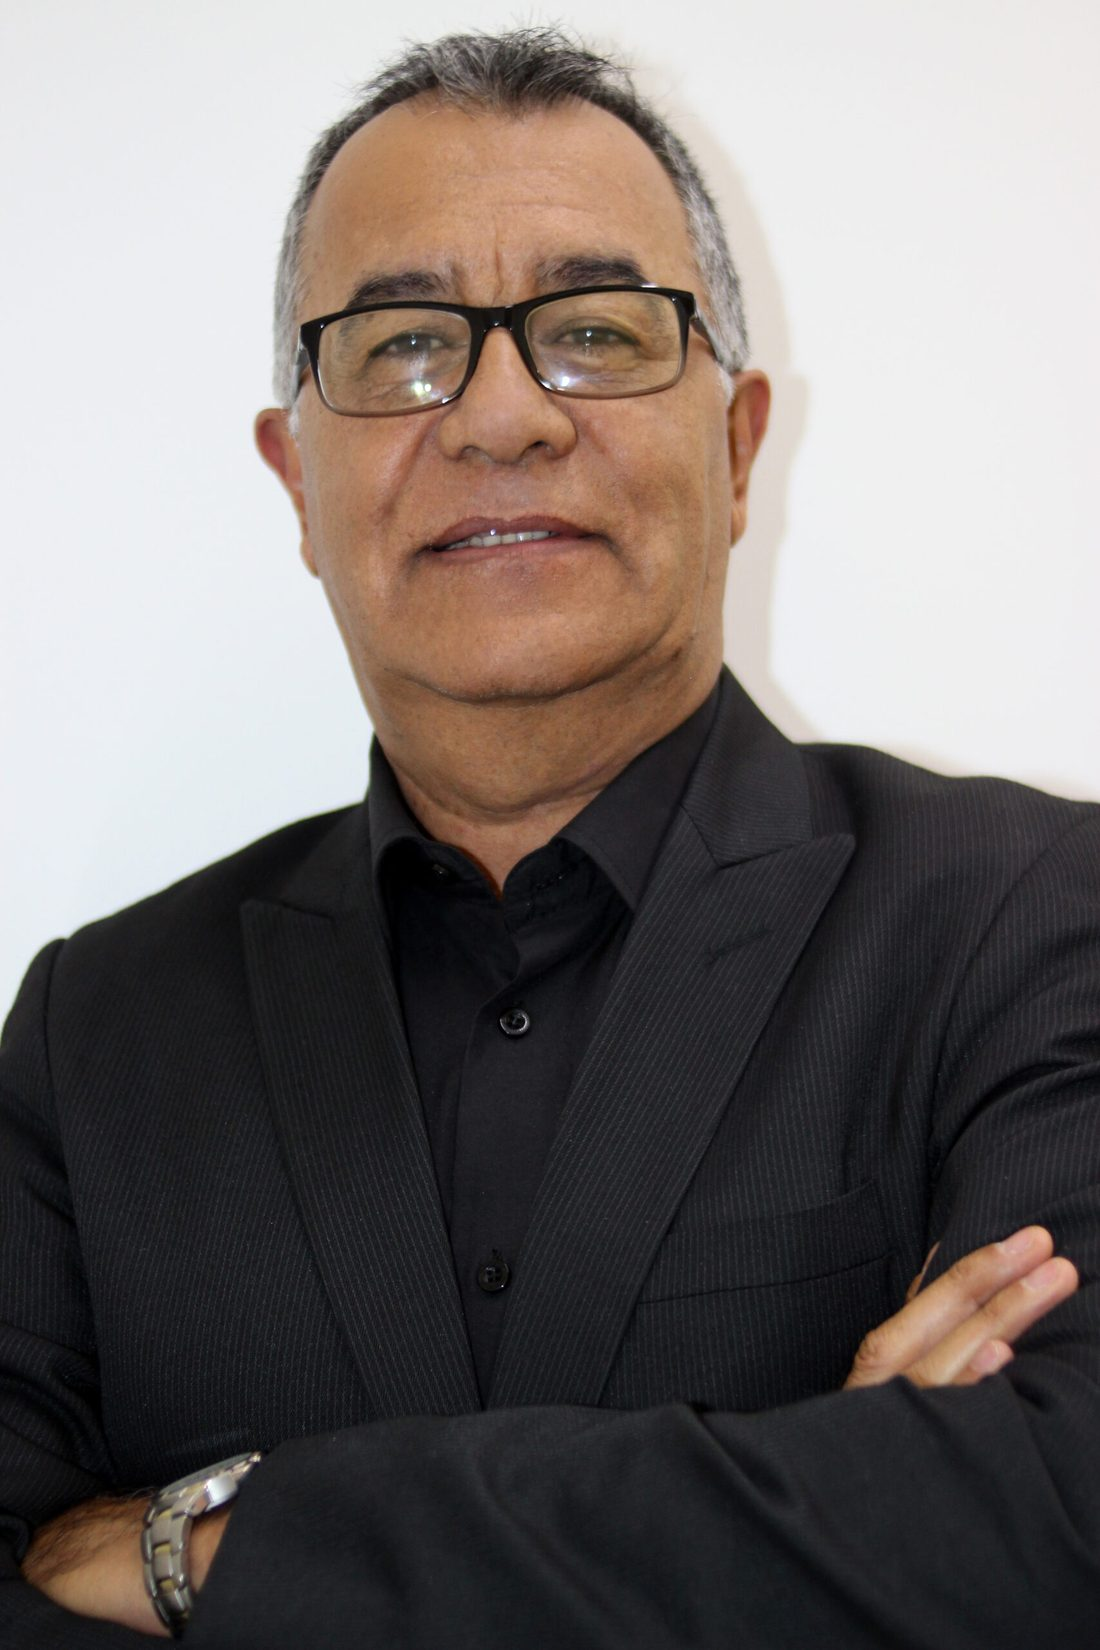
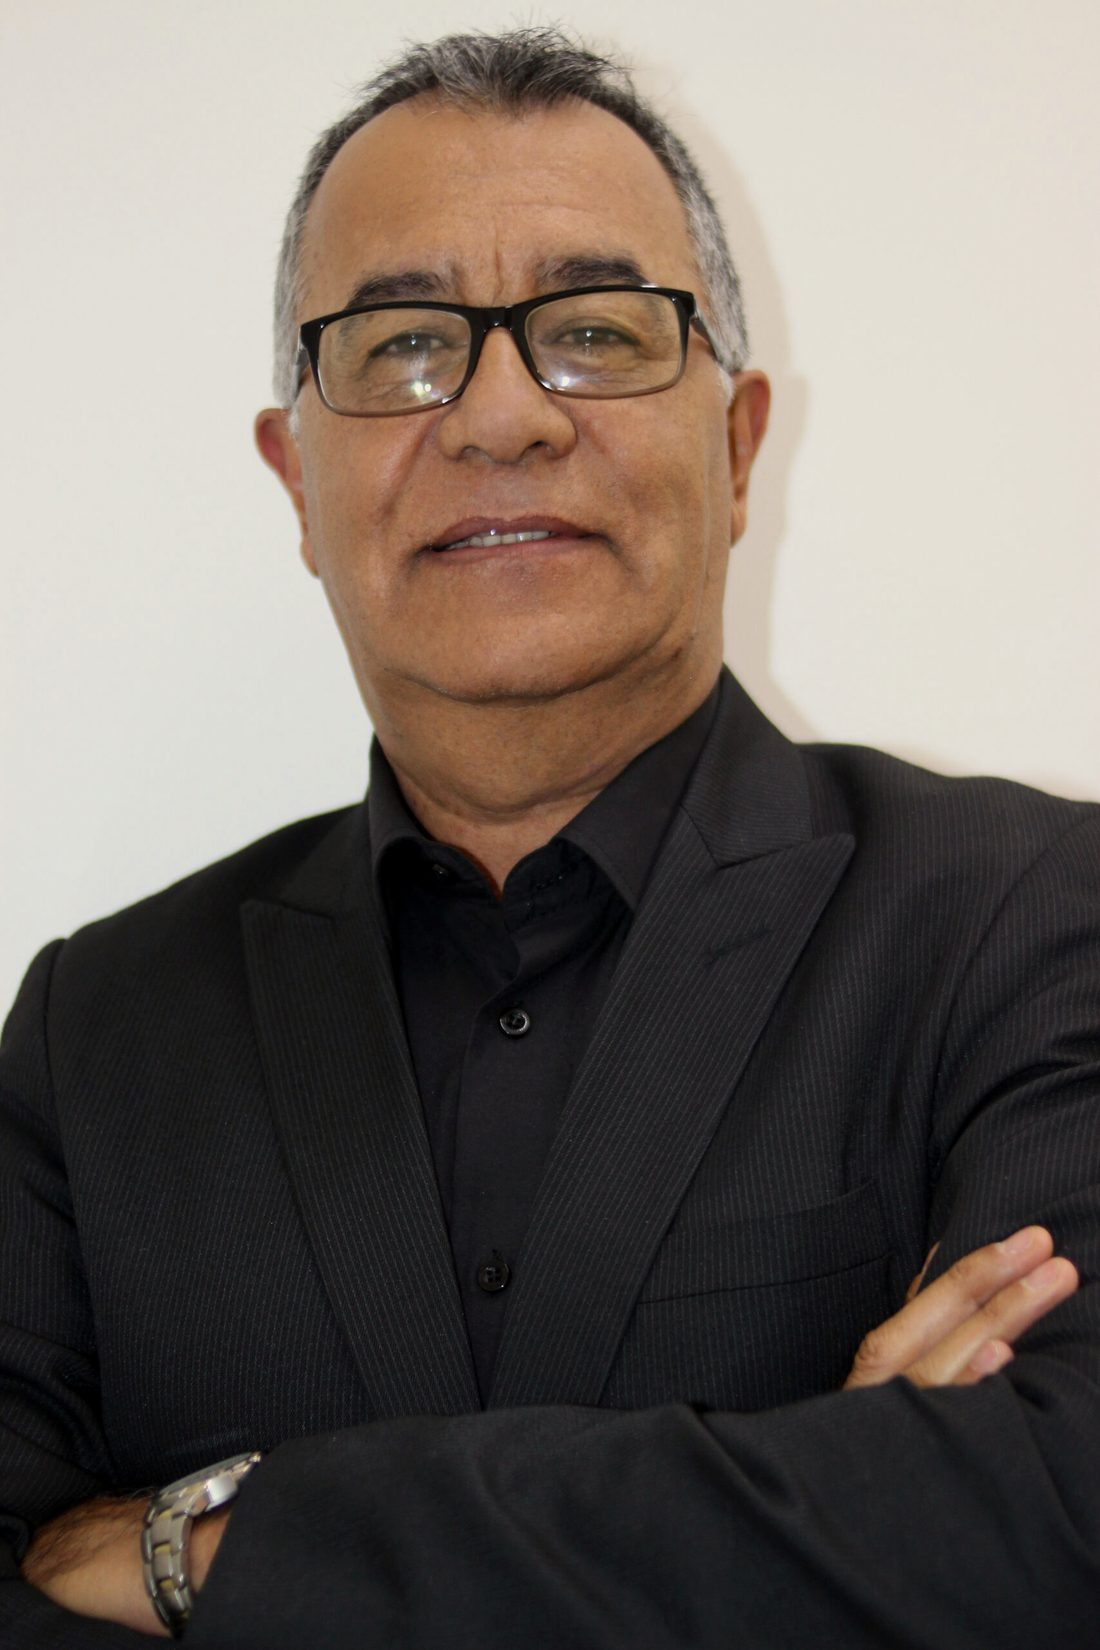
Demo José: foto difuminada con el fondo y símbolo como mente, cuerpo y espíritu
Claude-Session: https://claude.ai/code/session_01S9PCZ8hy8uqoi6wjFiyXWR

Changed region(s): [[0.0, 0.0, 1.0, 0.6182], [0.1855, 0.8964, 0.2164, 0.9273]]

diff --git a/demos/jose-herrera/index.html b/demos/jose-herrera/index.html
@@ -103,15 +103,17 @@ body::before{content:"";position:fixed;inset:0;pointer-events:none;z-index:100;o
 .facts div{font-size:.86rem;color:var(--gris);line-height:1.35}
 .facts b{display:block;font-family:var(--serif);font-weight:400;font-size:1.65rem;color:var(--carbon);letter-spacing:-.01em}
 
-.portrait{position:relative;justify-self:center;width:min(100%,500px)}
-.portrait .halo{position:absolute;left:50%;top:-7%;width:118%;transform:translateX(-50%);aspect-ratio:1;z-index:0;color:var(--oro);opacity:.55}
+.portrait{position:relative;justify-self:center;width:min(100%,470px)}
+.portrait .halo{position:absolute;left:50%;top:-4%;width:100%;transform:translateX(-50%);aspect-ratio:1;z-index:0;color:var(--oro);opacity:.55}
 .portrait .halo circle{fill:none;stroke:currentColor;stroke-width:.6}
-.arch{position:relative;z-index:1;aspect-ratio:4/5.1;border-radius:999px 999px 28px 28px;overflow:hidden;background:linear-gradient(165deg,#FAF5EC 0%,#EFE5D3 55%,#E4D6BD 100%);box-shadow:0 50px 80px -50px rgba(46,70,59,.55)}
-.arch img{width:100%;height:100%;object-fit:cover;object-position:50% 12%;mix-blend-mode:multiply;transform:scale(1.04);will-change:transform}
-.frame-line{position:absolute;z-index:0;inset:22px -22px -22px 22px;border:1px solid var(--oro);border-radius:999px 999px 28px 28px;opacity:.8}
+/* foto fundida con el fondo: sin marco, bordes difuminados y luz cálida detrás */
+.portrait::before,.about .pic::before{content:"";position:absolute;left:8%;right:8%;top:4%;height:62%;border-radius:50%;background:radial-gradient(closest-side,rgba(201,165,92,.30),rgba(220,229,221,.55) 55%,rgba(220,229,221,0));filter:blur(18px)}
+.portrait::after,.about .pic::after{content:"";position:absolute;left:14%;right:14%;bottom:6%;height:16%;border-radius:50%;background:radial-gradient(closest-side,rgba(46,70,59,.20),rgba(46,70,59,0));filter:blur(10px)}
+.arch{position:relative;aspect-ratio:2/3;margin:0 -6%}
+.arch img{width:100%;height:100%;object-fit:cover;object-position:50% 0;mix-blend-mode:multiply;-webkit-mask-image:radial-gradient(ellipse 50% 50% at 50% 50%,#000 60%,rgba(0,0,0,.65) 80%,transparent 100%);mask-image:radial-gradient(ellipse 50% 50% at 50% 50%,#000 60%,rgba(0,0,0,.65) 80%,transparent 100%)}
 .seal{position:absolute;z-index:3;left:-46px;top:16%;width:132px;height:132px;border-radius:50%;background:var(--marfil);display:grid;place-items:center;box-shadow:0 22px 40px -22px rgba(43,42,40,.45)}
 .seal svg.ring{position:absolute;inset:0;width:100%;height:100%;animation:spin 38s linear infinite}
-.seal svg.ring text{font-family:var(--sans);font-size:10.6px;font-weight:800;fill:var(--salvia);text-transform:uppercase}
+.seal svg.ring text{font-family:var(--sans);font-size:9.6px;font-weight:800;fill:var(--salvia);text-transform:uppercase}
 .seal img{width:56px;height:auto}
 .badge{position:absolute;z-index:3;right:-20px;bottom:8%;display:flex;align-items:center;gap:14px;padding:16px 22px 16px 16px;border-radius:20px;background:rgba(251,248,242,.9);-webkit-backdrop-filter:blur(10px);backdrop-filter:blur(10px);box-shadow:0 24px 40px -24px rgba(43,42,40,.5);border:1px solid rgba(201,165,92,.35)}
 .badge b{font-family:var(--serif);font-weight:400;font-size:2.4rem;line-height:1;color:var(--salvia)}
@@ -135,10 +137,8 @@ body::before{content:"";position:fixed;inset:0;pointer-events:none;z-index:100;o
 .js .loaded .hero .w > span{transform:none}
 .js .hero .fade{opacity:0;transform:translateY(18px);transition:opacity 1.1s var(--ease),transform 1.1s var(--ease)}
 .js .loaded .hero .fade{opacity:1;transform:none}
-.js .hero .arch{clip-path:inset(100% 0 0 0 round 999px 999px 28px 28px);transition:clip-path 1.6s var(--ease-soft) .2s}
-.js .loaded .hero .arch{clip-path:inset(0 0 0 0 round 999px 999px 28px 28px)}
-.js .hero .frame-line{opacity:0;transform:translate(-22px,-22px);transition:opacity 1.2s var(--ease) .9s,transform 1.4s var(--ease) .9s}
-.js .loaded .hero .frame-line{opacity:.8;transform:none}
+.js .hero .arch{opacity:0;filter:blur(16px);transform:scale(1.04);transition:opacity 1.8s var(--ease) .2s,filter 1.8s var(--ease) .2s,transform 2.2s var(--ease) .2s}
+.js .loaded .hero .arch{opacity:1;filter:none;transform:none}
 .js .hero .halo circle{stroke-dasharray:1;stroke-dashoffset:1;transition:stroke-dashoffset 2.6s var(--ease-soft)}
 .js .loaded .hero .halo circle{stroke-dashoffset:0}
 
@@ -159,8 +159,8 @@ body::before{content:"";position:fixed;inset:0;pointer-events:none;z-index:100;o
 /* revelado al hacer scroll */
 .js .reveal{opacity:0;transform:translateY(34px);transition:opacity 1.2s var(--ease),transform 1.2s var(--ease);transition-delay:calc(var(--d,0) * 110ms)}
 .js .reveal.seen{opacity:1;transform:none}
-.js .reveal-img{clip-path:inset(12% 12% 12% 12% round 999px 999px 28px 28px);opacity:.3;transition:clip-path 1.6s var(--ease-soft),opacity 1.4s var(--ease)}
-.js .reveal-img.seen{clip-path:inset(0 0 0 0 round 999px 999px 28px 28px);opacity:1}
+.js .reveal-img{opacity:0;filter:blur(14px);transition:opacity 1.6s var(--ease),filter 1.6s var(--ease)}
+.js .reveal-img.seen{opacity:1;filter:none}
 
 /* te pasa esto */
 .feel .grid{display:grid;grid-template-columns:repeat(4,1fr);gap:20px}
@@ -242,12 +242,11 @@ body::before{content:"";position:fixed;inset:0;pointer-events:none;z-index:100;o
 .courses li{padding:8px 16px;border-radius:999px;background:var(--arena);font-size:.9rem}
 
 /* sobre José */
+.about{overflow:hidden}
 .about .in{display:grid;grid-template-columns:.9fr 1.1fr;gap:clamp(40px,7vw,100px);align-items:center}
 .about .pic{position:relative;max-width:470px;width:100%;justify-self:center}
-.about .pic .arch{aspect-ratio:4/4.6}
-.about .pic .arch img{object-position:50% 20%}
-.about .pic .frame-line{inset:-18px 18px 18px -18px}
-.about .sign{position:absolute;z-index:3;right:-16px;bottom:-22px;padding:18px 24px;background:var(--marfil);border-radius:18px;box-shadow:0 24px 40px -26px rgba(43,42,40,.5);font-family:var(--serif);font-style:italic;font-size:1.25rem;color:var(--salvia);line-height:1.2}
+.about .pic .arch{aspect-ratio:900/1213}
+.about .sign{position:absolute;z-index:3;right:-6px;bottom:14%;padding:18px 24px;background:var(--marfil);border-radius:18px;box-shadow:0 24px 40px -26px rgba(43,42,40,.5);font-family:var(--serif);font-style:italic;font-size:1.25rem;color:var(--salvia);line-height:1.2}
 .about .sign small{display:block;font-family:var(--sans);font-style:normal;font-size:.72rem;letter-spacing:.16em;text-transform:uppercase;color:var(--oro-texto);font-weight:800;margin-top:4px}
 .about h2{font-size:clamp(2rem,3.8vw,3.1rem)}
 .about .quote{font-family:var(--serif);font-weight:300;font-style:italic;font-size:clamp(1.3rem,2vw,1.6rem);line-height:1.4;color:var(--salvia-osc);margin:26px 0}
@@ -348,9 +347,8 @@ html:not(.js) .fab{transform:none;opacity:1;pointer-events:auto}
   html{scroll-behavior:auto}
   *,*::before,*::after{animation:none !important;transition-duration:.01ms !important;transition-delay:0s !important}
   .js .reveal,.js .hero .fade{opacity:1;transform:none}
-  .js .reveal-img,.js .hero .arch{clip-path:none;opacity:1}
+  .js .reveal-img,.js .hero .arch{filter:none;opacity:1;transform:none}
   .js .hero .w > span{transform:none}
-  .js .hero .frame-line{opacity:.8;transform:none}
   .js .hero .halo circle{stroke-dashoffset:0}
   .how .row::before{transform:scaleX(1)}
   .steps .rail{transform:scaleY(1)}
@@ -411,7 +409,6 @@ html:not(.js) .fab{transform:none;opacity:1;pointer-events:auto}
 
     <div class="portrait">
       <svg class="halo" viewBox="0 0 200 200" aria-hidden="true"><circle pathLength="1" cx="100" cy="100" r="96" transform="rotate(-90 100 100)"/></svg>
-      <span class="frame-line" aria-hidden="true"></span>
       <div class="arch">
         <picture>
           <source type="image/webp" srcset="assets/jose-640.webp 640w, assets/jose-1100.webp 1100w" sizes="(max-width:900px) 86vw, 520px">
@@ -419,7 +416,7 @@ html:not(.js) .fab{transform:none;opacity:1;pointer-events:auto}
         </picture>
       </div>
       <div class="seal fade" style="transition-delay:1.2s" aria-hidden="true">
-        <svg class="ring" viewBox="0 0 120 120"><defs><path id="c" d="M60 60m-46 0a46 46 0 1 1 92 0a46 46 0 1 1-92 0"/></defs><text><textPath href="#c" textLength="286" lengthAdjust="spacing">Cuerpo · Mente · Alma ·</textPath></text></svg>
+        <svg class="ring" viewBox="0 0 120 120"><defs><path id="c" d="M60 60m-46 0a46 46 0 1 1 92 0a46 46 0 1 1-92 0"/></defs><text><textPath href="#c" textLength="286" lengthAdjust="spacing">Mente · Cuerpo · Espíritu ·</textPath></text></svg>
         <img src="assets/simbolo.png" alt="" width="379" height="312">
       </div>
       <div class="badge fade" style="transition-delay:1.35s"><b data-count="30">+30</b><span>años acompañando procesos de vida</span></div>
@@ -464,7 +461,7 @@ html:not(.js) .fab{transform:none;opacity:1;pointer-events:auto}
     <div class="head reveal">
       <div class="eyebrow">El Método 4R</div>
       <h2 id="t-metodo">Cuatro pasos para sanar <em>lo que hoy te pesa</em></h2>
-      <p class="lead">Es la forma en que José acompaña cada proceso. Se combina con coaching y Reiki para trabajar de manera integral: cuerpo, mente y alma.</p>
+      <p class="lead">Es la forma en que José acompaña cada proceso. Se combina con coaching y Reiki para trabajar de manera integral: mente, cuerpo y espíritu.</p>
       <blockquote>“Para la sanación y la reconexión es necesaria la toma de consciencia de los patrones que subyacen a lo que sentimos.”<cite>José Herrera</cite></blockquote>
     </div>
     <div class="steps" data-rail>
@@ -559,11 +556,10 @@ html:not(.js) .fab{transform:none;opacity:1;pointer-events:auto}
 <section class="band about" id="sobre-jose" aria-labelledby="t-about">
   <div class="in">
     <div class="pic reveal">
-      <span class="frame-line" aria-hidden="true"></span>
       <div class="arch reveal-img">
         <picture>
           <source type="image/webp" srcset="assets/jose-retrato.webp">
-          <img data-parallax="0.05" src="assets/jose-retrato.jpg" alt="Retrato de José Herrera" width="900" height="983" loading="lazy">
+          <img data-parallax="0.05" src="assets/jose-retrato.jpg" alt="Retrato de José Herrera" width="900" height="1213" loading="lazy">
         </picture>
       </div>
       <div class="sign">José Herrera<small>Terapeuta holístico</small></div>
@@ -590,11 +586,11 @@ html:not(.js) .fab{transform:none;opacity:1;pointer-events:auto}
     <div>
       <div class="head reveal" style="margin-bottom:0">
         <div class="eyebrow">Nuestro símbolo</div>
-        <h2 id="t-mean">Cuerpo, mente y alma, y en el centro <em>lo que vuelve a crecer</em></h2>
+        <h2 id="t-mean">Mente, cuerpo y espíritu, y en el centro <em>lo que vuelve a crecer</em></h2>
       </div>
       <div class="legend">
-        <div class="reveal" style="--d:0"><i style="background:#F1E6CC;color:var(--oro-texto)"><svg aria-hidden="true"><use href="#sun"/></svg></i><p><b>El arco dorado</b><span>La luz y el propósito que te guían.</span></p></div>
-        <div class="reveal" style="--d:1"><i style="background:var(--salvia-claro);color:var(--salvia)"><svg aria-hidden="true"><use href="#stones"/></svg></i><p><b>Los dos círculos verdes</b><span>El cuerpo y la mente, en equilibrio.</span></p></div>
+        <div class="reveal" style="--d:0"><i style="background:#F1E6CC;color:var(--oro-texto)"><svg aria-hidden="true"><use href="#sun"/></svg></i><p><b>El arco dorado</b><span>El espíritu: la luz y el propósito que te guían.</span></p></div>
+        <div class="reveal" style="--d:1"><i style="background:var(--salvia-claro);color:var(--salvia)"><svg aria-hidden="true"><use href="#stones"/></svg></i><p><b>Los dos círculos verdes</b><span>La mente y el cuerpo, en equilibrio.</span></p></div>
         <div class="reveal" style="--d:2"><i style="background:#E3EBD2;color:#5E7A33"><svg aria-hidden="true"><use href="#leaf"/></svg></i><p><b>El brote al centro</b><span>Lo que sana cuando los tres se encuentran.</span></p></div>
       </div>
     </div>
@@ -749,7 +745,7 @@ html:not(.js) .fab{transform:none;opacity:1;pointer-events:auto}
       var r=img.parentNode.getBoundingClientRect();
       if(r.bottom<0||r.top>innerHeight)return;
       var d=(r.top+r.height/2-innerHeight/2)*-parseFloat(img.dataset.parallax);
-      img.style.transform='translateY('+d.toFixed(1)+'px) scale(1.12)';
+      img.style.transform='translateY('+d.toFixed(1)+'px)';
     });
     if(rail){
       var rr=rail.getBoundingClientRect(),mid=innerHeight*.6;
